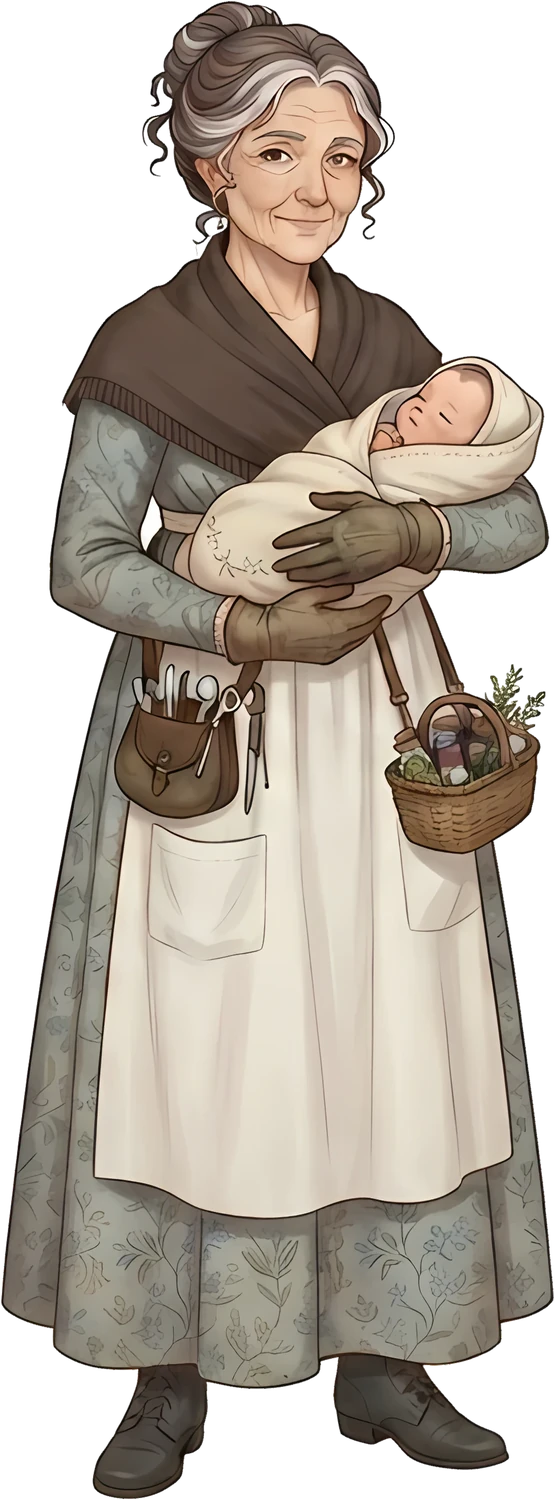
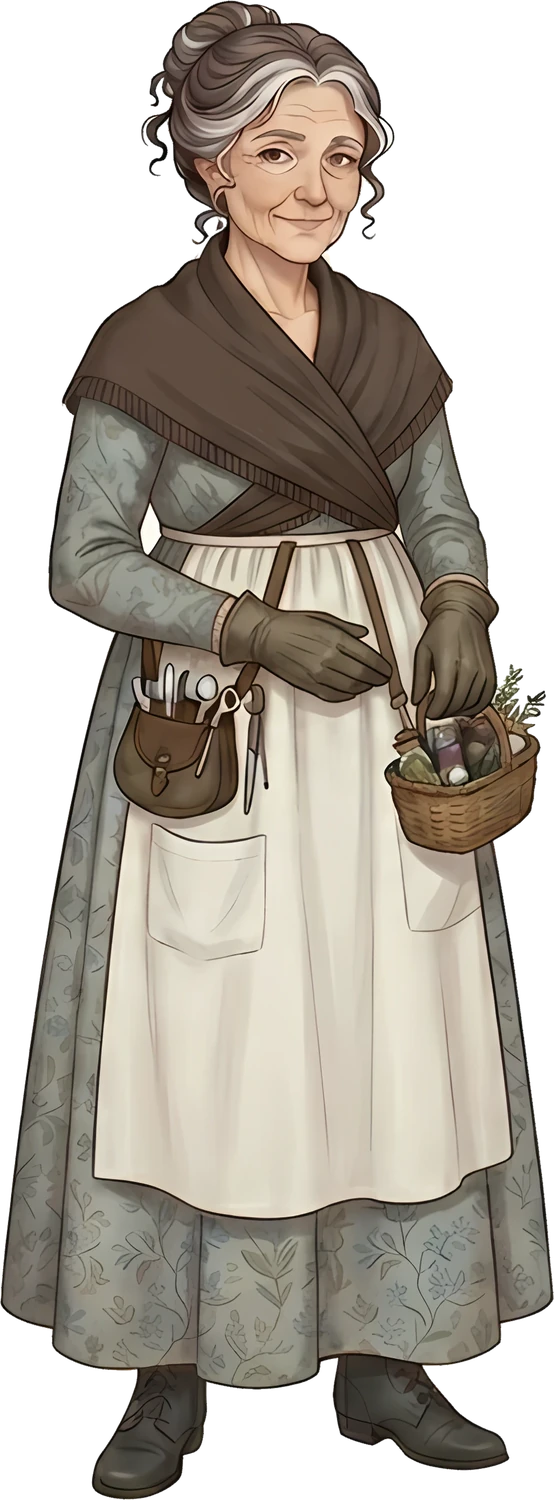
Nouveau portrait de Madame Roux
Claude-Session: https://claude.ai/code/session_01AMSofB5YBB9yuyCajHXYUu

diff --git a/index.html b/index.html
@@ -2791,7 +2791,7 @@ const PICS={
  iris:{src:'assets/iris.webp',w:553,h:1500,eye:[240,180,48],waist:.40},
  dorval:{src:'assets/dorval.webp',w:579,h:1500,eye:[244,170,48],waist:.42},
  judge:{src:'assets/judge.webp',w:677,h:1500,eye:[345,170,48],waist:.42},
- roux:{src:'assets/roux.webp',w:555,h:1500,eye:[277,170,48],waist:.40}};
+ roux:{src:'assets/roux.webp',w:554,h:1500,eye:[277,170,48],waist:.40}};
 const preOf=P=>(PRE[P.body]&&PRE[P.body].length&&P.look!=null)?PRE[P.body][P.look]:null;
 const MASKSVG=(fill,trim)=>`<svg viewBox="-65 -26 130 52"><path fill-rule="evenodd" d="M-65 -4 C-58 -26 -12 -24 0 -10 C12 -24 58 -26 65 -4 C58 20 14 22 0 10 C-14 22 -58 20 -65 -4 Z M-39 0 a14 9 0 1 0 28 0 a14 9 0 1 0 -28 0 Z M11 0 a14 9 0 1 0 28 0 a14 9 0 1 0 -28 0 Z" fill="${fill}" stroke="${trim}" stroke-width="2"/><path d="M58 -10 C76 -30 74 -48 60 -60 C64 -40 60 -22 58 -10 Z" fill="${trim}" opacity=".9" transform="scale(.8)"/></svg>`;
 const MK={"f1": {"src": "assets/mk_mcf.webp", "l": 29.785, "t": 0.903, "w": 26.137, "ox": 24.69, "oy": 69.9, "r": -3.34}, "f2": {"src": "assets/mk_mcf.webp", "l": 28.121, "t": 2.348, "w": 30.886, "ox": 24.69, "oy": 69.9, "r": -3.2}, "f3": {"src": "assets/mk_mcf.webp", "l": 29.188, "t": 4.863, "w": 27.401, "ox": 24.69, "oy": 69.9, "r": -6.94}, "f4": {"src": "assets/mk_mcf.webp", "l": 29.092, "t": 1.946, "w": 29.6, "ox": 24.69, "oy": 69.9, "r": -3.23}, "f5": {"src": "assets/mk_mcf.webp", "l": 29.39, "t": -0.097, "w": 30.859, "ox": 24.69, "oy": 69.9, "r": -3.99}, "m1": {"src": "assets/mk_mcm.webp", "l": 18.158, "t": 2.163, "w": 45.636, "ox": 40.98, "oy": 64.74, "r": -6.65}, "m2": {"src": "assets/mk_mcm.webp", "l": 19.446, "t": 1.681, "w": 48.848, "ox": 40.98, "oy": 64.74, "r": -7.53}, "m3": {"src": "assets/mk_mcm.webp", "l": 21.763, "t": 1.998, "w": 44.447, "ox": 40.98, "oy": 64.74, "r": -8.25}, "m4": {"src": "assets/mk_mcm.webp", "l": 20.469, "t": 2.259, "w": 47.194, "ox": 40.98, "oy": 64.74, "r": -7.6}, "edmund": {"src": "assets/mk_greengold.webp", "l": 28.237, "t": 4.292, "w": 33.006, "ox": 28.0, "oy": 62.41, "r": -2.68}, "philippe": {"src": "assets/mk_greengold.webp", "l": 28.046, "t": 5.074, "w": 43.186, "ox": 28.0, "oy": 62.41, "r": -4.34}, "perceval": {"src": "assets/mk_bluegold.webp", "l": 28.79, "t": 5.428, "w": 47.059, "ox": 27.9, "oy": 62.51, "r": -8.91}, "mateo": {"src": "assets/mk_bluegold.webp", "l": 29.506, "t": 2.49, "w": 35.607, "ox": 27.9, "oy": 62.51, "r": -5.96}, "rosalind": {"src": "assets/mk_pink.webp", "l": 30.424, "t": 0.638, "w": 45.312, "ox": 24.73, "oy": 69.87, "r": -3.52}, "nell": {"src": "assets/mk_pink.webp", "l": 31.196, "t": -0.177, "w": 45.41, "ox": 24.73, "oy": 69.87, "r": -2.46}, "mother": {"src": "assets/mk_mother.webp", "l": 46.874, "t": 0.849, "w": 24.133, "ox": 21.41, "oy": 62.25, "r": 2.18}, "prudence": {"src": "assets/mk_prudence.webp", "l": 27.089, "t": 2.342, "w": 35.431, "ox": 24.27, "oy": 63.65, "r": -7.81}, "peregrine": {"src": "assets/mk_peregrine.webp", "l": 26.743, "t": 1.745, "w": 36.537, "ox": 24.31, "oy": 63.67, "r": -4.33}, "queen": {"src": "assets/mk_queen.webp", "l": 22.167, "t": 3.978, "w": 20.839, "ox": 31.09, "oy": 58.2, "r": -9.83}, "duchess": {"src": "assets/mk_duchess.webp", "l": 22.511, "t": 4.849, "w": 22.47, "ox": 31.19, "oy": 58.52, "r": -6.57}};

diff --git a/source/main.js b/source/main.js
@@ -48,7 +48,7 @@ const PICS={
  iris:{src:'assets/iris.webp',w:553,h:1500,eye:[240,180,48],waist:.40},
  dorval:{src:'assets/dorval.webp',w:579,h:1500,eye:[244,170,48],waist:.42},
  judge:{src:'assets/judge.webp',w:677,h:1500,eye:[345,170,48],waist:.42},
- roux:{src:'assets/roux.webp',w:555,h:1500,eye:[277,170,48],waist:.40}};
+ roux:{src:'assets/roux.webp',w:554,h:1500,eye:[277,170,48],waist:.40}};
 const preOf=P=>(PRE[P.body]&&PRE[P.body].length&&P.look!=null)?PRE[P.body][P.look]:null;
 const MASKSVG=(fill,trim)=>`<svg viewBox="-65 -26 130 52"><path fill-rule="evenodd" d="M-65 -4 C-58 -26 -12 -24 0 -10 C12 -24 58 -26 65 -4 C58 20 14 22 0 10 C-14 22 -58 20 -65 -4 Z M-39 0 a14 9 0 1 0 28 0 a14 9 0 1 0 -28 0 Z M11 0 a14 9 0 1 0 28 0 a14 9 0 1 0 -28 0 Z" fill="${fill}" stroke="${trim}" stroke-width="2"/><path d="M58 -10 C76 -30 74 -48 60 -60 C64 -40 60 -22 58 -10 Z" fill="${trim}" opacity=".9" transform="scale(.8)"/></svg>`;
 const MK={"f1": {"src": "assets/mk_mcf.webp", "l": 29.785, "t": 0.903, "w": 26.137, "ox": 24.69, "oy": 69.9, "r": -3.34}, "f2": {"src": "assets/mk_mcf.webp", "l": 28.121, "t": 2.348, "w": 30.886, "ox": 24.69, "oy": 69.9, "r": -3.2}, "f3": {"src": "assets/mk_mcf.webp", "l": 29.188, "t": 4.863, "w": 27.401, "ox": 24.69, "oy": 69.9, "r": -6.94}, "f4": {"src": "assets/mk_mcf.webp", "l": 29.092, "t": 1.946, "w": 29.6, "ox": 24.69, "oy": 69.9, "r": -3.23}, "f5": {"src": "assets/mk_mcf.webp", "l": 29.39, "t": -0.097, "w": 30.859, "ox": 24.69, "oy": 69.9, "r": -3.99}, "m1": {"src": "assets/mk_mcm.webp", "l": 18.158, "t": 2.163, "w": 45.636, "ox": 40.98, "oy": 64.74, "r": -6.65}, "m2": {"src": "assets/mk_mcm.webp", "l": 19.446, "t": 1.681, "w": 48.848, "ox": 40.98, "oy": 64.74, "r": -7.53}, "m3": {"src": "assets/mk_mcm.webp", "l": 21.763, "t": 1.998, "w": 44.447, "ox": 40.98, "oy": 64.74, "r": -8.25}, "m4": {"src": "assets/mk_mcm.webp", "l": 20.469, "t": 2.259, "w": 47.194, "ox": 40.98, "oy": 64.74, "r": -7.6}, "edmund": {"src": "assets/mk_greengold.webp", "l": 28.237, "t": 4.292, "w": 33.006, "ox": 28.0, "oy": 62.41, "r": -2.68}, "philippe": {"src": "assets/mk_greengold.webp", "l": 28.046, "t": 5.074, "w": 43.186, "ox": 28.0, "oy": 62.41, "r": -4.34}, "perceval": {"src": "assets/mk_bluegold.webp", "l": 28.79, "t": 5.428, "w": 47.059, "ox": 27.9, "oy": 62.51, "r": -8.91}, "mateo": {"src": "assets/mk_bluegold.webp", "l": 29.506, "t": 2.49, "w": 35.607, "ox": 27.9, "oy": 62.51, "r": -5.96}, "rosalind": {"src": "assets/mk_pink.webp", "l": 30.424, "t": 0.638, "w": 45.312, "ox": 24.73, "oy": 69.87, "r": -3.52}, "nell": {"src": "assets/mk_pink.webp", "l": 31.196, "t": -0.177, "w": 45.41, "ox": 24.73, "oy": 69.87, "r": -2.46}, "mother": {"src": "assets/mk_mother.webp", "l": 46.874, "t": 0.849, "w": 24.133, "ox": 21.41, "oy": 62.25, "r": 2.18}, "prudence": {"src": "assets/mk_prudence.webp", "l": 27.089, "t": 2.342, "w": 35.431, "ox": 24.27, "oy": 63.65, "r": -7.81}, "peregrine": {"src": "assets/mk_peregrine.webp", "l": 26.743, "t": 1.745, "w": 36.537, "ox": 24.31, "oy": 63.67, "r": -4.33}, "queen": {"src": "assets/mk_queen.webp", "l": 22.167, "t": 3.978, "w": 20.839, "ox": 31.09, "oy": 58.2, "r": -9.83}, "duchess": {"src": "assets/mk_duchess.webp", "l": 22.511, "t": 4.849, "w": 22.47, "ox": 31.19, "oy": 58.52, "r": -6.57}};

diff --git a/sw.js b/sw.js
@@ -1,4 +1,4 @@
-const C='tlc-v15';const F=["./", "index.html", "manifest.webmanifest", "icons/favicon.png", "icons/icon-192.png", "icons/icon-512.png", "icons/icon-maskable-192.png", "icons/icon-maskable-512.png", "assets/bess.webp", "assets/clem.webp", "assets/cordelia.webp", "assets/dorval.webp", "assets/duchess.webp", "assets/edmund.webp", "assets/f1.webp", "assets/f2.webp", "assets/f3.webp", "assets/f4.webp", "assets/f5.webp", "assets/father.webp", "assets/georgie.webp", "assets/guard.webp", "assets/iris.webp", "assets/judge.webp", "assets/ladyp.webp", "assets/lordp.webp", "assets/m1.webp", "assets/m2.webp", "assets/m3.webp", "assets/m4.webp", "assets/mateo.webp", "assets/mk_bluegold.webp", "assets/mk_duchess.webp", "assets/mk_greengold.webp", "assets/mk_mcf.webp", "assets/mk_mcm.webp", "assets/mk_mother.webp", "assets/mk_peregrine.webp", "assets/mk_pink.webp", "assets/mk_prudence.webp", "assets/mk_queen.webp", "assets/mother.webp", "assets/nell.webp", "assets/perceval.webp", "assets/peregrine.webp", "assets/philippe.webp", "assets/prudence.webp", "assets/queen.webp", "assets/rosalind.webp", "assets/roux.webp", "assets/theo.webp"];
+const C='tlc-v16';const F=["./", "index.html", "manifest.webmanifest", "icons/favicon.png", "icons/icon-192.png", "icons/icon-512.png", "icons/icon-maskable-192.png", "icons/icon-maskable-512.png", "assets/bess.webp", "assets/clem.webp", "assets/cordelia.webp", "assets/dorval.webp", "assets/duchess.webp", "assets/edmund.webp", "assets/f1.webp", "assets/f2.webp", "assets/f3.webp", "assets/f4.webp", "assets/f5.webp", "assets/father.webp", "assets/georgie.webp", "assets/guard.webp", "assets/iris.webp", "assets/judge.webp", "assets/ladyp.webp", "assets/lordp.webp", "assets/m1.webp", "assets/m2.webp", "assets/m3.webp", "assets/m4.webp", "assets/mateo.webp", "assets/mk_bluegold.webp", "assets/mk_duchess.webp", "assets/mk_greengold.webp", "assets/mk_mcf.webp", "assets/mk_mcm.webp", "assets/mk_mother.webp", "assets/mk_peregrine.webp", "assets/mk_pink.webp", "assets/mk_prudence.webp", "assets/mk_queen.webp", "assets/mother.webp", "assets/nell.webp", "assets/perceval.webp", "assets/peregrine.webp", "assets/philippe.webp", "assets/prudence.webp", "assets/queen.webp", "assets/rosalind.webp", "assets/roux.webp", "assets/theo.webp"];
 self.addEventListener('install',e=>{e.waitUntil(caches.open(C).then(c=>c.addAll(F)).then(()=>self.skipWaiting()))});
 self.addEventListener('activate',e=>{e.waitUntil(caches.keys().then(k=>Promise.all(k.filter(x=>x!==C).map(x=>caches.delete(x)))).then(()=>self.clients.claim()))});
 self.addEventListener('fetch',e=>{if(e.request.method!=='GET')return;e.respondWith(caches.match(e.request).then(r=>r||fetch(e.request).then(res=>{if(res.ok||res.type==='opaque'){const cp=res.clone();caches.open(C).then(c=>c.put(e.request,cp))}return res}).catch(()=>caches.match('index.html'))))});
